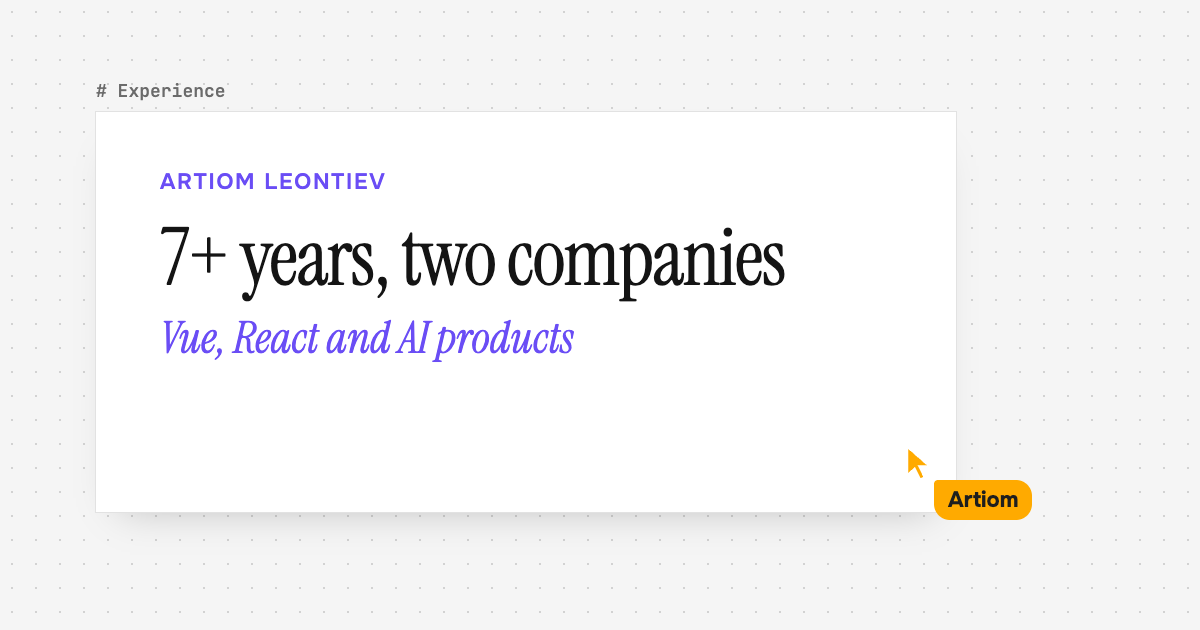
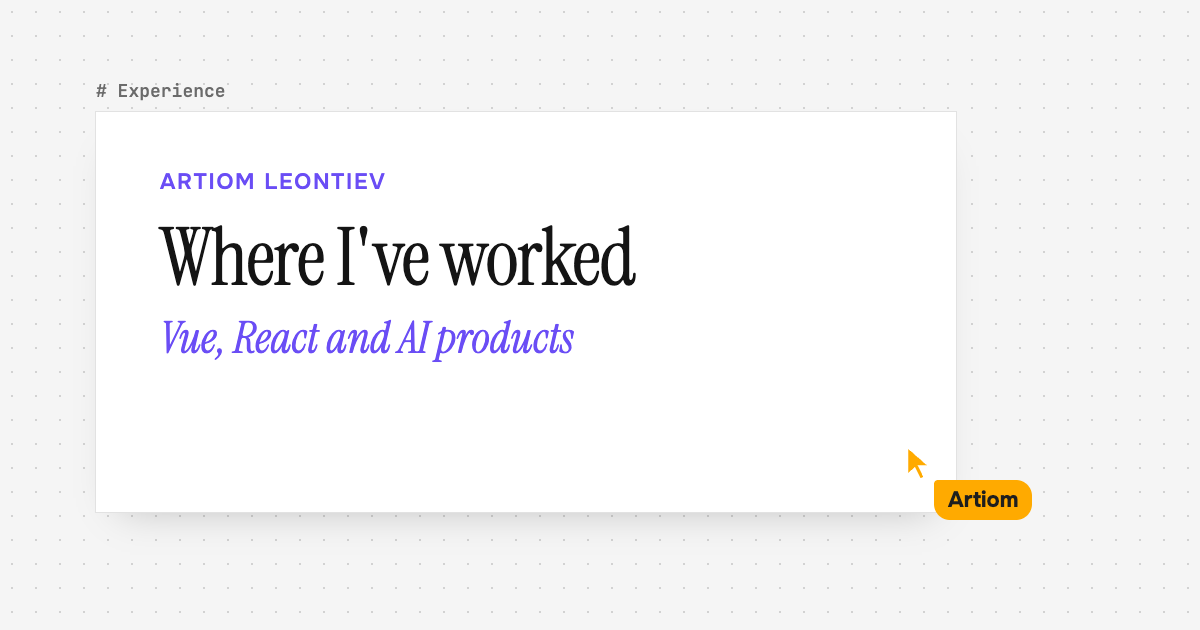
content: rewrite project cards around what each product does
Side projects describe the product, with roles and stacks checked against
the repositories (Klipsy is full-stack). Client cards lead with what the
product is. The delivery-platform card and Experience bullet now say what
the platform does. Experience is titled "Where I've worked", with a new
social image, and the CV links to the public 2026 PDF.

Changed region(s): [[0.1233, 0.3619, 0.6783, 0.4825]]

diff --git a/src/content/projects.ts b/src/content/projects.ts
@@ -6,15 +6,15 @@ export const sideProjects: SideProject[] = [
     name: "Klipsy",
     tagline: "AI social content studio",
     years: "2026 – present",
-    role: "Lead engineer",
-    summary: "A SaaS that uses AI to generate faceless videos, image posts and text posts, then publishes them to TikTok, YouTube, Instagram and X on a schedule.",
+    role: "Lead full-stack engineer",
+    summary: "Klipsy turns a brand's documents into a steady stream of social content: it writes text posts, designs image posts and makes faceless videos, then publishes them on a schedule.",
     points: [
-      "Designed the AI content pipeline: brand documents become a brand brief that drives per-platform writer agents (OpenAI, Gemini). Rotating angles halved repetitive posts.",
-      "Extended a 45-tool MCP server so Claude and ChatGPT users can create, schedule and publish from chat, secured with OAuth 2 and protections against prompt injection and SSRF attacks.",
-      "Introduced per-model LLM cost tracking from real token usage, correcting a blended rate that had overstated cheap-model costs about 37 times.",
-      "Delivered product features in Vue 3 and TypeScript, and made the whole app and marketing site fully responsive.",
+      "Creates posts for each platform in the brand's own voice.",
+      "Schedules and publishes to TikTok, YouTube, Instagram, X and more from one calendar.",
+      "Works inside Claude and ChatGPT, so users can create and publish without leaving the chat.",
+      "Tracks how every post performs across the connected accounts.",
     ],
-    stack: ["Vue 3", "TypeScript", "OpenAI", "Gemini", "MCP", "OAuth 2"],
+    stack: ["Laravel", "Vue 3", "TypeScript", "Inertia.js", "PostgreSQL", "Redis", "OpenAI", "Gemini", "MCP", "Paddle"],
     links: [{ label: "theklipsy.com", href: "https://theklipsy.com" }],
     image: { avif: "/images/projects/klipsy.avif", webp: "/images/projects/klipsy.webp", width: 1200, height: 750, alt: "The Klipsy website's home page" },
   },
@@ -24,13 +24,14 @@ export const sideProjects: SideProject[] = [
     tagline: "AI journaling app for iOS",
     years: "2026",
     role: "Founder and sole developer",
-    summary: "An iOS app in which a multi-persona LLM panel answers journal entries, with data encrypted on the device. Live on the App Store.",
+    summary: "An iOS journaling app in which a council of AI voices, such as the Critic, the Dreamer and the Sage, replies to what you write. Live on the App Store.",
     points: [
-      "Shipped the app end to end in Flutter, with native Swift speech-to-text.",
-      "Built an LLM gateway with Gemini-to-Mistral failover, structured output and per-user token limits, plus an AI-safety layer that detects crisis content and shows support resources.",
-      "Localized into 8 languages, with a marketing site held to Lighthouse 95+ and WCAG 2.2.",
+      "Write or speak an entry. Speech is transcribed on the phone.",
+      "Several voices answer at once, each from its own point of view, and can read their replies aloud.",
+      "Private by design: no account, and journals are encrypted on the device.",
+      "Recognizes crisis language and points to support lines. Available in 8 languages.",
     ],
-    stack: ["Flutter", "Swift", "Gemini", "Mistral"],
+    stack: ["Flutter", "Swift", "TypeScript", "Fastify", "Cloud Run", "Gemini", "Mistral", "RevenueCat"],
     links: [
       { label: "council.artiomleo.com", href: "https://council.artiomleo.com" },
       { label: "App Store", href: "https://apps.apple.com/app/id6781214823" },
@@ -42,13 +43,14 @@ export const sideProjects: SideProject[] = [
     name: "AskManu",
     tagline: "AI coding assistant",
     years: "2024 – 2025",
-    role: "Sole frontend developer in a two-person team",
-    summary: "An AI chat assistant for developers, with code suggestions and connections to their GitHub repositories.",
+    role: "Lead frontend developer in a small team",
+    summary: "An AI assistant that answered developers' questions using library documentation and their own code.",
     points: [
-      "Built the Vue 3 frontend from scratch: streaming AI chat, a CodeMirror code editor and GitHub repository connection.",
-      "Built an embeddable JavaScript chat widget and package-version context for more precise AI answers.",
+      "Answered questions about any library, matched to the exact version in use.",
+      "Took code snippets from a built-in editor, or a connected GitHub repository, for answers about your own project.",
+      "Embedded on documentation sites as a chat widget with one script tag.",
     ],
-    stack: ["Vue 3", "CodeMirror", "Streaming AI chat"],
+    stack: ["Vue 3", "Pinia", "Vite", "Tailwind CSS", "CodeMirror 6", "markdown-it"],
     links: [{ label: "askmanu.co", href: "https://askmanu.co" }],
     image: { avif: "/images/projects/askmanu.avif", webp: "/images/projects/askmanu.webp", width: 1200, height: 750, alt: "The AskManu website's home page" },
   },
@@ -56,50 +58,50 @@ export const sideProjects: SideProject[] = [
 
 export const clientProjects: ClientProject[] = [
   {
-    slug: "case-study-generator",
-    title: "AI case-study generator",
-    years: "2025",
-    summary: "Took it to production: case studies went from days of manual writing to minutes, for Sales and Marketing. Built the React app and co-built the RAG service.",
-    stack: ["React", "TypeScript", "RAG", "Azure OpenAI"],
-    wireframe: "chat",
+    slug: "compliance-saas",
+    title: "Sustainability-compliance SaaS",
+    years: "2025 – 2026",
+    summary: "Software that helps companies collect and report sustainability data for regulations. As frontend lead, I split the React app into independently deployed modules with a shared design system, and built the core reporting workflows.",
+    stack: ["React 19", "TypeScript", "Module Federation", "Design system"],
+    wireframe: "dashboard",
+  },
+  {
+    slug: "ai-delivery-platform",
+    title: "AI-assisted project-delivery platform",
+    years: "2026",
+    summary: "A platform where software teams plan and ship their projects. AI assistants draft requirements, stories and reports, and a person accepts or rejects every change. Code, pull-request reviews and build pipelines live in the same place, with a VS Code extension for working from the editor.",
+    stack: ["React", "TypeScript", "Module Federation", "TanStack Query"],
+    wireframe: "editor",
   },
   {
     slug: "agent-skill-mcp",
     title: "Agent-skill MCP server",
     years: "2026",
-    summary: "A self-hosted MCP server that gives Claude Code and GitHub Copilot access to an agent-skill library, load-tested to 100 concurrent users at about 70 ms median latency. Plus reusable agent skills, including a code-review skill that must cite evidence.",
-    stack: ["Node.js", "MCP", "Docker"],
+    summary: "A shared library of agent skills that Claude Code and GitHub Copilot load on demand, served from a self-hosted MCP server that handles 100 concurrent users at about 70 ms median latency. I built the server and wrote skills such as a code review that must cite evidence for each finding.",
+    stack: ["Node.js", "MCP", "Docker", "Claude Code"],
     wireframe: "list",
-  },
-  {
-    slug: "ai-delivery-platform",
-    title: "AI-assisted software-delivery platform",
-    years: "2025 – 2026",
-    summary: "Frontend features for a platform where AI agents propose changes, including the human-in-the-loop flow that approves them.",
-    stack: ["React", "TypeScript"],
-    wireframe: "editor",
-  },
-  {
-    slug: "compliance-saas",
-    title: "Sustainability-compliance SaaS",
-    years: "2025 – 2026",
-    summary: "Frontend lead. Designed a React 19 micro-frontend architecture with a shared design system, role-based access and a typed API client, and built the core compliance workflows.",
-    stack: ["React 19", "Module Federation", "Design system"],
-    wireframe: "dashboard",
   },
   {
     slug: "pdf-signing",
     title: "PDF digital-signing library",
     years: "2026",
-    summary: "A .NET library and Docker REST API for PDF signatures at PAdES B, T, LT and LTA levels under eIDAS, verified with pdfsig. Added multiple signatures, Azure Key Vault as the certificate source, and NuGet and Docker packaging.",
+    summary: "A .NET library and REST API that adds legally valid digital signatures to PDFs under the EU's eIDAS rules, including signatures that stay verifiable for years. I added multiple signatures per document, Azure Key Vault certificates, and NuGet and Docker packages.",
     stack: [".NET", "Docker", "Azure Key Vault"],
     wireframe: "document",
+  },
+  {
+    slug: "case-study-generator",
+    title: "AI case-study generator",
+    years: "2025",
+    summary: "An internal tool that drafts customer case studies from the company's project documents, used by Sales and Marketing. It cut each case study from days of writing to minutes. I built the React app and co-built the AI retrieval service behind it.",
+    stack: ["React", "TypeScript", "RAG", "Azure OpenAI"],
+    wireframe: "chat",
   },
   {
     slug: "occupational-health",
     title: "Occupational-health platform",
     years: "2023 – 2025",
-    summary: "Frontend lead. Designed a Vue 3 micro-frontend architecture with a configurable dynamic-form engine; the platform passed a WCAG 2.1 AA audit. Led and mentored 4 developers.",
+    summary: "A platform that runs workplace health assessments for employers. As frontend lead, I designed its Vue 3 micro-frontend architecture and a configurable form engine, and led 4 developers. It passed a WCAG 2.1 AA accessibility audit.",
     stack: ["Vue 3", "Vite", "Micro-frontends", "Pinia"],
     wireframe: "form",
   },
@@ -107,7 +109,7 @@ export const clientProjects: ClientProject[] = [
     slug: "fertility-clinic",
     title: "Fertility-clinic platform",
     years: "2019 – 2022",
-    summary: "Rebuilt the client app in Vue 3 and automated kit-processing and shipping workflows, cutting manual paperwork by 50% and improving client retention by 20%.",
+    summary: "The client app for a fertility clinic's testing-kit service. I rebuilt it in Vue 3 and automated kit processing and shipping, cutting manual paperwork by 50% and improving client retention by 20%.",
     stack: ["Vue 3", "Laravel", "Inertia.js", "MySQL", "AWS"],
     wireframe: "list",
   },
@@ -115,7 +117,7 @@ export const clientProjects: ClientProject[] = [
     slug: "job-board-builder",
     title: "Multi-site job-board builder",
     years: "2019 – 2022",
-    summary: "A Nuxt builder that runs many job-board sites from one server with per-site DNS mapping. Server-side rendering and SEO work raised the SEO score by 30%.",
+    summary: "A builder that runs many job-board websites from one server, each on its own domain. I built it in Nuxt, and server-side rendering and SEO work raised the SEO score by 30%.",
     stack: ["Nuxt", "Vue", "Tailwind", "Multi-tenancy"],
     wireframe: "dashboard",
   },
@@ -123,7 +125,7 @@ export const clientProjects: ClientProject[] = [
     slug: "copywriting-tool",
     title: "Copywriting tool",
     years: "2019 – 2022",
-    summary: "Led a 2-developer team building a tool that generated articles through content-generation APIs, with Stripe payments.",
+    summary: "A tool that writes articles automatically, with paid plans through Stripe. I led a team of 2 developers.",
     stack: ["Content-generation APIs", "Stripe"],
     wireframe: "editor",
   },
@@ -131,7 +133,7 @@ export const clientProjects: ClientProject[] = [
     slug: "license-management",
     title: "License-management platform",
     years: "2019 – 2022",
-    summary: "A suite of apps that helps enterprises cut licensing costs.",
+    summary: "A suite of apps that shows enterprises where they overspend on software licenses. I built Vue.js frontends with live updates over WebSockets.",
     stack: ["Vue.js", "Tailwind", "WebSockets"],
     wireframe: "dashboard",
   },

diff --git a/src/content/experience.ts b/src/content/experience.ts
@@ -16,7 +16,7 @@ export const roles: Role[] = [
           "Took an AI case-study generator to production, cutting case studies from days of manual writing to minutes. Used by Sales and Marketing. Built the React app and co-built the RAG service (Azure OpenAI).",
           "Built and self-hosted an MCP server that gives Claude Code and GitHub Copilot access to the company's agent-skill library. Load-tested it to 100 concurrent users at about 70 ms median latency.",
           "Wrote reusable Claude Code and Copilot agent skills for engineering teams, including a code-review skill that has to cite evidence for every finding.",
-          "Contributed frontend features to an AI-assisted software-delivery platform, including human-in-the-loop approval of changes proposed by AI agents (React, TypeScript).",
+          "Built the pull-request review for an AI-assisted project-delivery platform (changed files, side-by-side diffs, comment threads, approvals) and hardened its flow for accepting AI-drafted changes (React, TypeScript).",
         ],
       },
       {

diff --git a/src/content/profile.ts b/src/content/profile.ts
@@ -6,7 +6,7 @@ export const profile = {
   email: "contact@artiomleo.com",
   github: "https://github.com/artiomleo",
   linkedin: "https://www.linkedin.com/in/artiomleo/",
-  cvUrl: "https://drive.google.com/file/d/1mfCKTsZ6tDHk7Td8VvAKuy1Ct9NsHG6t/view?usp=sharing",
+  cvUrl: "https://drive.google.com/file/d/1c296pwoO0QAl2fmsOOMBiI6i6DjtpRws/view?usp=sharing",
   headline: { lead: "builds web products,", accent: "and the AI behind them." },
   lede: "7+ years of Vue and React, and since 2025 the AI layer behind them: LLM integrations, RAG, agents and MCP servers. Based in Cluj-Napoca, Romania.",
   currently: ["AI products and internal AI tooling at Amdaris", "Building Klipsy on the side"],

diff --git a/scripts/og/og.html b/scripts/og/og.html
@@ -12,7 +12,7 @@
       const COPY = {
         home: ["Home", "Senior Frontend Engineer", "AI-powered applications"],
         projects: ["Projects", "Things I've built", "Klipsy, Council and client work"],
-        experience: ["Experience", "7+ years, two companies", "Vue, React and AI products"],
+        experience: ["Experience", "Where I've worked", "Vue, React and AI products"],
         about: ["About", "Frontend at the core", "AI on top"],
         contact: ["Contact", "Let's talk", "contact@artiomleo.com"],
       };

diff --git a/src/frames/Experience.tsx b/src/frames/Experience.tsx
@@ -7,7 +7,7 @@ export function Experience({ primary }: { primary: boolean }) {
     <Frame id="experience" primary={primary}>
       <header className="frame-head">
         <p className="eyebrow">Experience</p>
-        <FrameTitle>7+ years, two companies</FrameTitle>
+        <FrameTitle>Where I've worked</FrameTitle>
         <p className="frame-lede">
           Frontend architecture and team leadership on micro-frontend platforms, and since 2025, AI products.
         </p>
